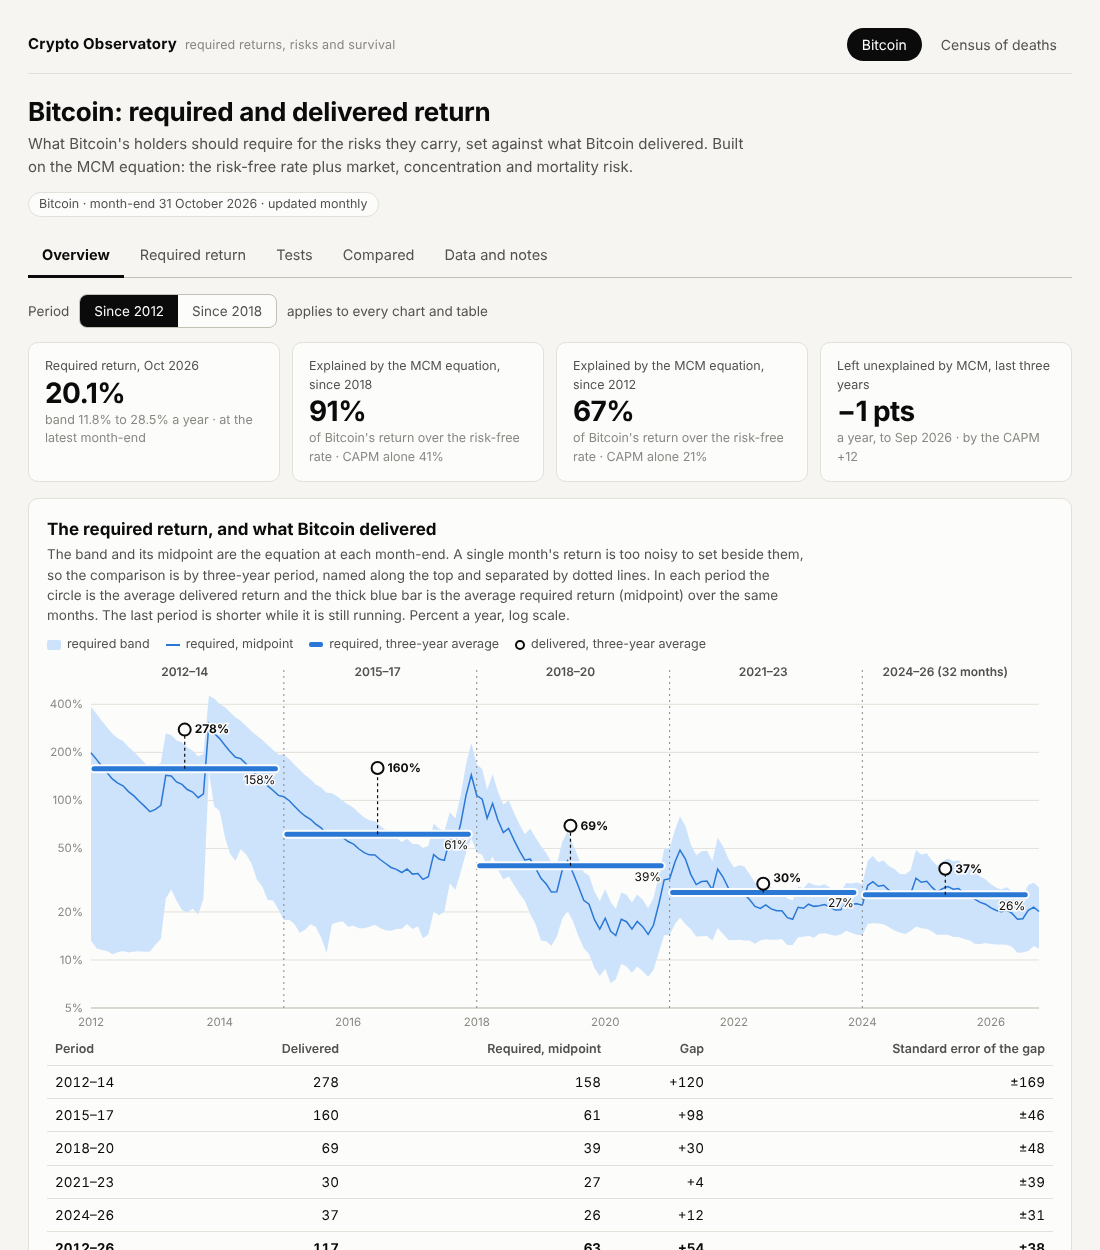
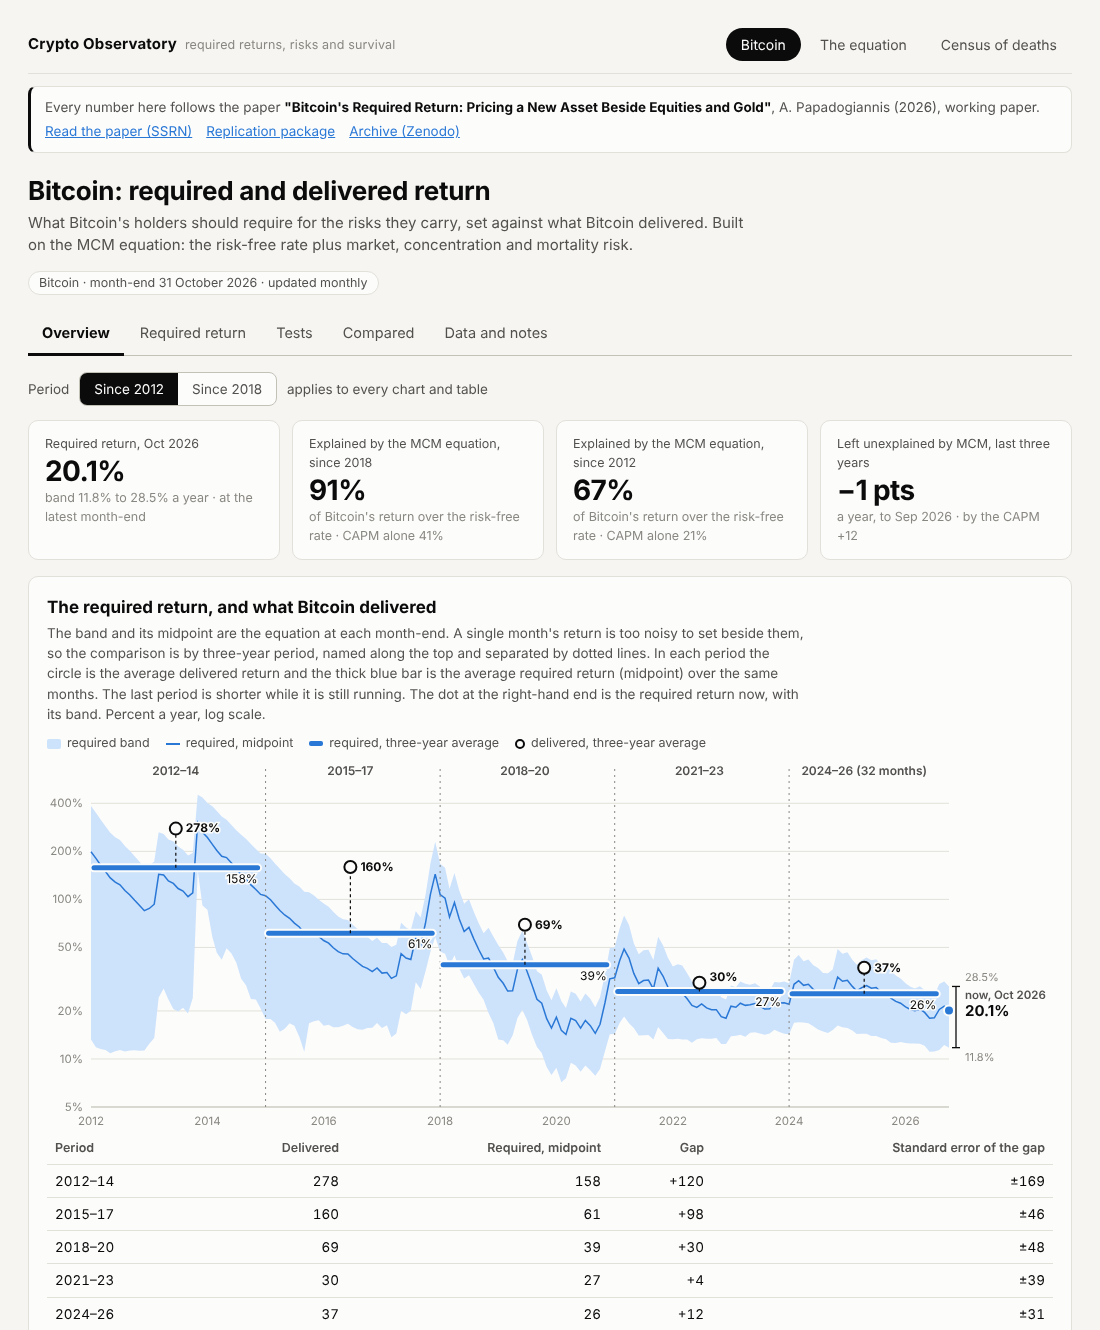
README: current wording and screenshot

diff --git a/README.md b/README.md
@@ -20,8 +20,8 @@ required return = risk-free rate + market risk + concentration risk + mortality 
 The site has three sections: Bitcoin, the equation and the census of deaths. **Bitcoin** has five tabs:
 
 1. **Overview.** The required return and what was delivered, by three-year period, and why the two
-   differed: the premium holders required, what the equity market added beyond its own premium, and
-   alpha.
+   differed: the premium holders required, what came with the equity market, and what the equation
+   leaves unexplained.
 2. **Required return.** How the band is built, which holder sets each edge, and the three risks
    (market, concentration, mortality), each with its formula and the inputs that move it.
 3. **Tests.** How much of the delivered return the CAPM explains, how much the MCM equation explains,
